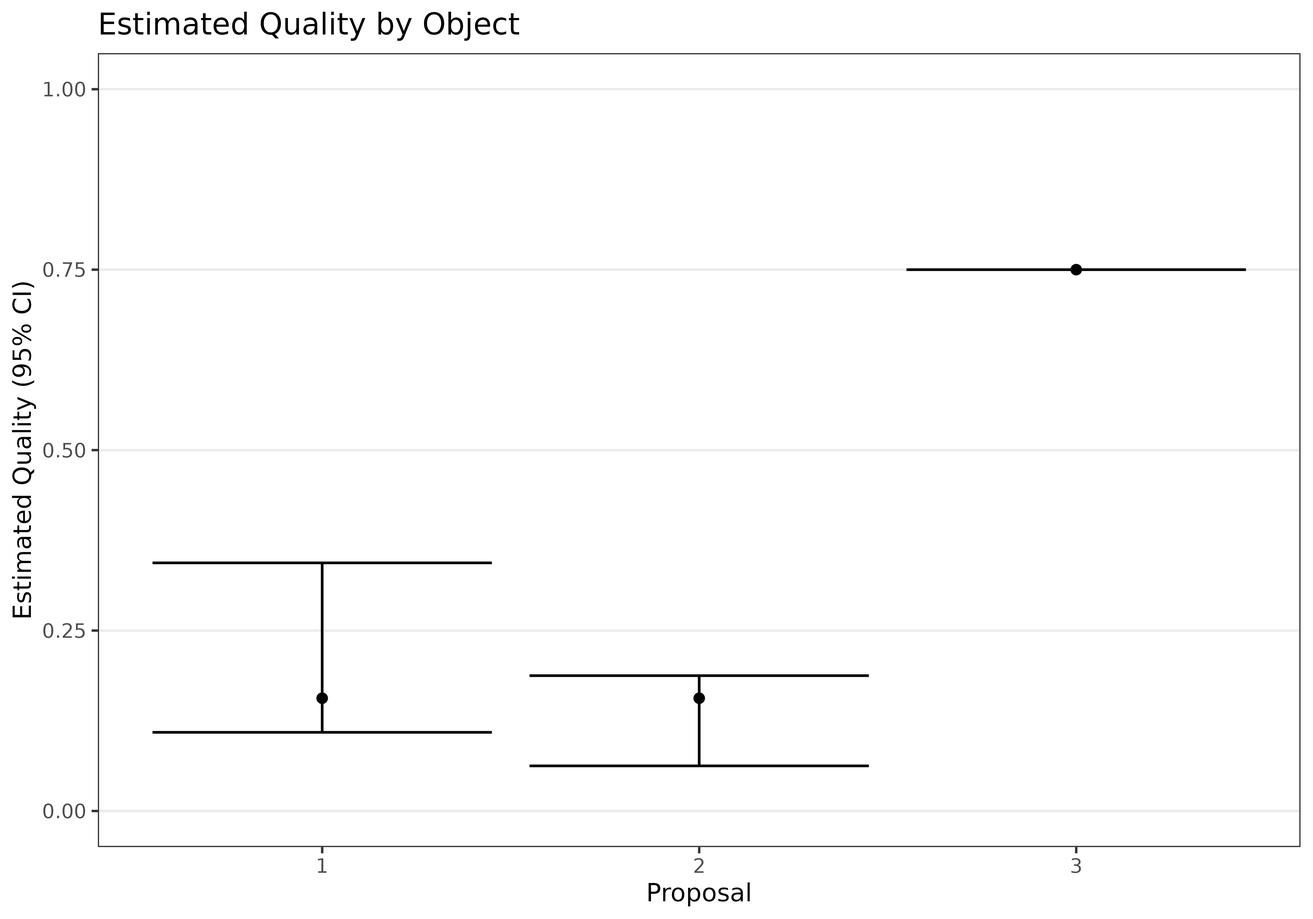
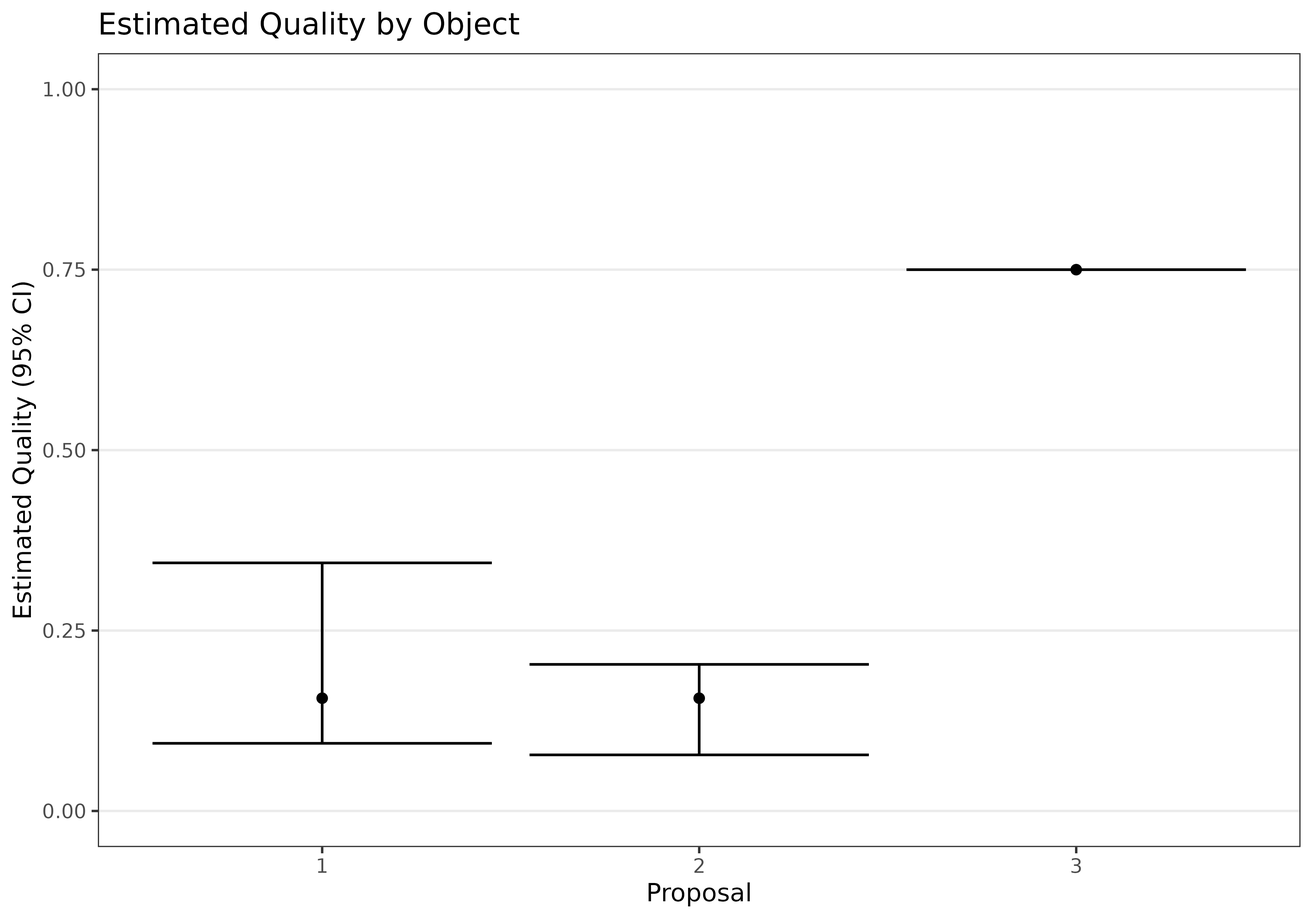
Deploying to gh-pages from @ pearce790/rankrate@70605de461a01934feefa08a687546aed1bb86b0 🚀

Changed region(s): [[0.1243, 0.7756, 0.373, 0.8377], [0.4041, 0.8067, 0.6528, 0.8377], [0.4041, 0.7136, 0.6528, 0.7446]]

diff --git a/reference/ci_mb.html b/reference/ci_mb.html
@@ -18,7 +18,7 @@ using the nonparametric bootstrap."><!-- mathjax --><script src="https://cdnjs.c
       </button>
       <span class="navbar-brand">
         <a class="navbar-link" href="../index.html">rankrate</a>
-        <span class="version label label-default" data-toggle="tooltip" data-placement="bottom" title="">1.2.0</span>
+        <span class="version label label-default" data-toggle="tooltip" data-placement="bottom" title="">1.3.0</span>
       </span>
     </div>
 
@@ -113,9 +113,9 @@ matrix of bootstrap estimates of (p,theta) (returned only if <code>all==TRUE</co
     <div class="sourceCode"><pre class="sourceCode r"><code><span class="r-in"><span><span class="fu"><a href="https://rdrr.io/r/utils/data.html" class="external-link">data</a></span><span class="op">(</span><span class="st">"ToyData1"</span><span class="op">)</span></span></span>
 <span class="r-in"><span><span class="fu">ci_mb</span><span class="op">(</span><span class="va">ToyData1</span><span class="op">$</span><span class="va">rankings</span>,<span class="va">ToyData1</span><span class="op">$</span><span class="va">ratings</span>,<span class="va">ToyData1</span><span class="op">$</span><span class="va">M</span>,method<span class="op">=</span><span class="st">"ASTAR"</span>,all<span class="op">=</span><span class="cn">TRUE</span><span class="op">)</span></span></span>
 <span class="r-out co"><span class="r-pr">#&gt;</span> $ci</span>
-<span class="r-out co"><span class="r-pr">#&gt;</span>           p1       p2   p3 theta</span>
-<span class="r-out co"><span class="r-pr">#&gt;</span> 5%  0.078125 0.078125 0.75 1e+08</span>
-<span class="r-out co"><span class="r-pr">#&gt;</span> 95% 0.171875 0.171875 0.75 1e+08</span>
+<span class="r-out co"><span class="r-pr">#&gt;</span>            p1        p2   p3 theta</span>
+<span class="r-out co"><span class="r-pr">#&gt;</span> 5%  0.0781250 0.0781250 0.75 1e+08</span>
+<span class="r-out co"><span class="r-pr">#&gt;</span> 95% 0.1804687 0.1804687 0.75 1e+08</span>
 <span class="r-out co"><span class="r-pr">#&gt;</span> </span>
 <span class="r-out co"><span class="r-pr">#&gt;</span> $ci_ranks</span>
 <span class="r-out co"><span class="r-pr">#&gt;</span>     Object1 Object2 Object3</span>
@@ -177,56 +177,56 @@ matrix of bootstrap estimates of (p,theta) (returned only if <code>all==TRUE</co
 <span class="r-out co"><span class="r-pr">#&gt;</span> </span>
 <span class="r-out co"><span class="r-pr">#&gt;</span> $bootstrap_ptheta</span>
 <span class="r-out co"><span class="r-pr">#&gt;</span>             p1       p2   p3 theta</span>
-<span class="r-out co"><span class="r-pr">#&gt;</span>  [1,] 0.093750 0.093750 0.75 1e+08</span>
-<span class="r-out co"><span class="r-pr">#&gt;</span>  [2,] 0.062500 0.062500 0.75 1e+08</span>
-<span class="r-out co"><span class="r-pr">#&gt;</span>  [3,] 0.125000 0.125000 0.75 1e+08</span>
+<span class="r-out co"><span class="r-pr">#&gt;</span>  [1,] 0.140625 0.140625 0.75 1e+08</span>
+<span class="r-out co"><span class="r-pr">#&gt;</span>  [2,] 0.187500 0.187500 0.75 1e+08</span>
+<span class="r-out co"><span class="r-pr">#&gt;</span>  [3,] 0.140625 0.140625 0.75 1e+08</span>
 <span class="r-out co"><span class="r-pr">#&gt;</span>  [4,] 0.125000 0.125000 0.75 1e+08</span>
 <span class="r-out co"><span class="r-pr">#&gt;</span>  [5,] 0.109375 0.109375 0.75 1e+08</span>
-<span class="r-out co"><span class="r-pr">#&gt;</span>  [6,] 0.140625 0.140625 0.75 1e+08</span>
-<span class="r-out co"><span class="r-pr">#&gt;</span>  [7,] 0.140625 0.140625 0.75 1e+08</span>
-<span class="r-out co"><span class="r-pr">#&gt;</span>  [8,] 0.156250 0.156250 0.75 1e+08</span>
-<span class="r-out co"><span class="r-pr">#&gt;</span>  [9,] 0.125000 0.125000 0.75 1e+08</span>
-<span class="r-out co"><span class="r-pr">#&gt;</span> [10,] 0.171875 0.171875 0.75 1e+08</span>
-<span class="r-out co"><span class="r-pr">#&gt;</span> [11,] 0.125000 0.125000 0.75 1e+08</span>
-<span class="r-out co"><span class="r-pr">#&gt;</span> [12,] 0.062500 0.062500 0.75 1e+08</span>
+<span class="r-out co"><span class="r-pr">#&gt;</span>  [6,] 0.187500 0.187500 0.75 1e+08</span>
+<span class="r-out co"><span class="r-pr">#&gt;</span>  [7,] 0.109375 0.109375 0.75 1e+08</span>
+<span class="r-out co"><span class="r-pr">#&gt;</span>  [8,] 0.171875 0.171875 0.75 1e+08</span>
+<span class="r-out co"><span class="r-pr">#&gt;</span>  [9,] 0.140625 0.140625 0.75 1e+08</span>
+<span class="r-out co"><span class="r-pr">#&gt;</span> [10,] 0.062500 0.062500 0.75 1e+08</span>
+<span class="r-out co"><span class="r-pr">#&gt;</span> [11,] 0.140625 0.140625 0.75 1e+08</span>
+<span class="r-out co"><span class="r-pr">#&gt;</span> [12,] 0.109375 0.109375 0.75 1e+08</span>
 <span class="r-out co"><span class="r-pr">#&gt;</span> [13,] 0.140625 0.140625 0.75 1e+08</span>
-<span class="r-out co"><span class="r-pr">#&gt;</span> [14,] 0.171875 0.171875 0.75 1e+08</span>
-<span class="r-out co"><span class="r-pr">#&gt;</span> [15,] 0.140625 0.140625 0.75 1e+08</span>
-<span class="r-out co"><span class="r-pr">#&gt;</span> [16,] 0.125000 0.125000 0.75 1e+08</span>
-<span class="r-out co"><span class="r-pr">#&gt;</span> [17,] 0.125000 0.125000 0.75 1e+08</span>
-<span class="r-out co"><span class="r-pr">#&gt;</span> [18,] 0.093750 0.093750 0.75 1e+08</span>
-<span class="r-out co"><span class="r-pr">#&gt;</span> [19,] 0.125000 0.125000 0.75 1e+08</span>
-<span class="r-out co"><span class="r-pr">#&gt;</span> [20,] 0.109375 0.109375 0.75 1e+08</span>
-<span class="r-out co"><span class="r-pr">#&gt;</span> [21,] 0.093750 0.093750 0.75 1e+08</span>
-<span class="r-out co"><span class="r-pr">#&gt;</span> [22,] 0.125000 0.125000 0.75 1e+08</span>
-<span class="r-out co"><span class="r-pr">#&gt;</span> [23,] 0.171875 0.171875 0.75 1e+08</span>
-<span class="r-out co"><span class="r-pr">#&gt;</span> [24,] 0.093750 0.093750 0.75 1e+08</span>
-<span class="r-out co"><span class="r-pr">#&gt;</span> [25,] 0.156250 0.156250 0.75 1e+08</span>
-<span class="r-out co"><span class="r-pr">#&gt;</span> [26,] 0.203125 0.203125 0.75 1e+08</span>
-<span class="r-out co"><span class="r-pr">#&gt;</span> [27,] 0.140625 0.140625 0.75 1e+08</span>
-<span class="r-out co"><span class="r-pr">#&gt;</span> [28,] 0.156250 0.156250 0.75 1e+08</span>
-<span class="r-out co"><span class="r-pr">#&gt;</span> [29,] 0.140625 0.140625 0.75 1e+08</span>
-<span class="r-out co"><span class="r-pr">#&gt;</span> [30,] 0.140625 0.140625 0.75 1e+08</span>
+<span class="r-out co"><span class="r-pr">#&gt;</span> [14,] 0.156250 0.156250 0.75 1e+08</span>
+<span class="r-out co"><span class="r-pr">#&gt;</span> [15,] 0.062500 0.062500 0.75 1e+08</span>
+<span class="r-out co"><span class="r-pr">#&gt;</span> [16,] 0.171875 0.171875 0.75 1e+08</span>
+<span class="r-out co"><span class="r-pr">#&gt;</span> [17,] 0.140625 0.140625 0.75 1e+08</span>
+<span class="r-out co"><span class="r-pr">#&gt;</span> [18,] 0.171875 0.171875 0.75 1e+08</span>
+<span class="r-out co"><span class="r-pr">#&gt;</span> [19,] 0.078125 0.078125 0.75 1e+08</span>
+<span class="r-out co"><span class="r-pr">#&gt;</span> [20,] 0.078125 0.078125 0.75 1e+08</span>
+<span class="r-out co"><span class="r-pr">#&gt;</span> [21,] 0.156250 0.156250 0.75 1e+08</span>
+<span class="r-out co"><span class="r-pr">#&gt;</span> [22,] 0.109375 0.109375 0.75 1e+08</span>
+<span class="r-out co"><span class="r-pr">#&gt;</span> [23,] 0.125000 0.125000 0.75 1e+08</span>
+<span class="r-out co"><span class="r-pr">#&gt;</span> [24,] 0.203125 0.203125 0.75 1e+08</span>
+<span class="r-out co"><span class="r-pr">#&gt;</span> [25,] 0.140625 0.140625 0.75 1e+08</span>
+<span class="r-out co"><span class="r-pr">#&gt;</span> [26,] 0.125000 0.125000 0.75 1e+08</span>
+<span class="r-out co"><span class="r-pr">#&gt;</span> [27,] 0.125000 0.125000 0.75 1e+08</span>
+<span class="r-out co"><span class="r-pr">#&gt;</span> [28,] 0.125000 0.125000 0.75 1e+08</span>
+<span class="r-out co"><span class="r-pr">#&gt;</span> [29,] 0.125000 0.125000 0.75 1e+08</span>
+<span class="r-out co"><span class="r-pr">#&gt;</span> [30,] 0.125000 0.125000 0.75 1e+08</span>
 <span class="r-out co"><span class="r-pr">#&gt;</span> [31,] 0.109375 0.109375 0.75 1e+08</span>
-<span class="r-out co"><span class="r-pr">#&gt;</span> [32,] 0.187500 0.187500 0.75 1e+08</span>
-<span class="r-out co"><span class="r-pr">#&gt;</span> [33,] 0.140625 0.140625 0.75 1e+08</span>
-<span class="r-out co"><span class="r-pr">#&gt;</span> [34,] 0.078125 0.078125 0.75 1e+08</span>
-<span class="r-out co"><span class="r-pr">#&gt;</span> [35,] 0.140625 0.140625 0.75 1e+08</span>
-<span class="r-out co"><span class="r-pr">#&gt;</span> [36,] 0.093750 0.093750 0.75 1e+08</span>
-<span class="r-out co"><span class="r-pr">#&gt;</span> [37,] 0.078125 0.078125 0.75 1e+08</span>
+<span class="r-out co"><span class="r-pr">#&gt;</span> [32,] 0.125000 0.125000 0.75 1e+08</span>
+<span class="r-out co"><span class="r-pr">#&gt;</span> [33,] 0.093750 0.093750 0.75 1e+08</span>
+<span class="r-out co"><span class="r-pr">#&gt;</span> [34,] 0.125000 0.125000 0.75 1e+08</span>
+<span class="r-out co"><span class="r-pr">#&gt;</span> [35,] 0.109375 0.109375 0.75 1e+08</span>
+<span class="r-out co"><span class="r-pr">#&gt;</span> [36,] 0.156250 0.156250 0.75 1e+08</span>
+<span class="r-out co"><span class="r-pr">#&gt;</span> [37,] 0.140625 0.140625 0.75 1e+08</span>
 <span class="r-out co"><span class="r-pr">#&gt;</span> [38,] 0.125000 0.125000 0.75 1e+08</span>
-<span class="r-out co"><span class="r-pr">#&gt;</span> [39,] 0.109375 0.109375 0.75 1e+08</span>
-<span class="r-out co"><span class="r-pr">#&gt;</span> [40,] 0.125000 0.125000 0.75 1e+08</span>
-<span class="r-out co"><span class="r-pr">#&gt;</span> [41,] 0.125000 0.125000 0.75 1e+08</span>
-<span class="r-out co"><span class="r-pr">#&gt;</span> [42,] 0.078125 0.078125 0.75 1e+08</span>
-<span class="r-out co"><span class="r-pr">#&gt;</span> [43,] 0.093750 0.093750 0.75 1e+08</span>
-<span class="r-out co"><span class="r-pr">#&gt;</span> [44,] 0.156250 0.156250 0.75 1e+08</span>
-<span class="r-out co"><span class="r-pr">#&gt;</span> [45,] 0.156250 0.156250 0.75 1e+08</span>
-<span class="r-out co"><span class="r-pr">#&gt;</span> [46,] 0.140625 0.140625 0.75 1e+08</span>
-<span class="r-out co"><span class="r-pr">#&gt;</span> [47,] 0.109375 0.109375 0.75 1e+08</span>
-<span class="r-out co"><span class="r-pr">#&gt;</span> [48,] 0.109375 0.109375 0.75 1e+08</span>
+<span class="r-out co"><span class="r-pr">#&gt;</span> [39,] 0.140625 0.140625 0.75 1e+08</span>
+<span class="r-out co"><span class="r-pr">#&gt;</span> [40,] 0.093750 0.093750 0.75 1e+08</span>
+<span class="r-out co"><span class="r-pr">#&gt;</span> [41,] 0.171875 0.171875 0.75 1e+08</span>
+<span class="r-out co"><span class="r-pr">#&gt;</span> [42,] 0.125000 0.125000 0.75 1e+08</span>
+<span class="r-out co"><span class="r-pr">#&gt;</span> [43,] 0.078125 0.078125 0.75 1e+08</span>
+<span class="r-out co"><span class="r-pr">#&gt;</span> [44,] 0.171875 0.171875 0.75 1e+08</span>
+<span class="r-out co"><span class="r-pr">#&gt;</span> [45,] 0.125000 0.125000 0.75 1e+08</span>
+<span class="r-out co"><span class="r-pr">#&gt;</span> [46,] 0.093750 0.093750 0.75 1e+08</span>
+<span class="r-out co"><span class="r-pr">#&gt;</span> [47,] 0.140625 0.140625 0.75 1e+08</span>
+<span class="r-out co"><span class="r-pr">#&gt;</span> [48,] 0.140625 0.140625 0.75 1e+08</span>
 <span class="r-out co"><span class="r-pr">#&gt;</span> [49,] 0.171875 0.171875 0.75 1e+08</span>
-<span class="r-out co"><span class="r-pr">#&gt;</span> [50,] 0.125000 0.125000 0.75 1e+08</span>
+<span class="r-out co"><span class="r-pr">#&gt;</span> [50,] 0.156250 0.156250 0.75 1e+08</span>
 <span class="r-out co"><span class="r-pr">#&gt;</span> </span>
 <span class="r-in"><span></span></span>
 </code></pre></div>

diff --git a/reference/rmb.html b/reference/rmb.html
@@ -17,7 +17,7 @@
       </button>
       <span class="navbar-brand">
         <a class="navbar-link" href="../index.html">rankrate</a>
-        <span class="version label label-default" data-toggle="tooltip" data-placement="bottom" title="">1.2.0</span>
+        <span class="version label label-default" data-toggle="tooltip" data-placement="bottom" title="">1.3.0</span>
       </span>
     </div>
 
@@ -96,19 +96,19 @@ and <code>M</code>, the inputted maximum integer rating.</p>
     <div class="sourceCode"><pre class="sourceCode r"><code><span class="r-in"><span><span class="fu">rmb</span><span class="op">(</span>I<span class="op">=</span><span class="fl">5</span>,p<span class="op">=</span><span class="fu"><a href="https://rdrr.io/r/base/c.html" class="external-link">c</a></span><span class="op">(</span><span class="fl">.1</span>,<span class="fl">.3</span>,<span class="fl">.4</span>,<span class="fl">.7</span>,<span class="fl">.9</span><span class="op">)</span>,theta<span class="op">=</span><span class="fl">1</span>,M<span class="op">=</span><span class="fl">10</span><span class="op">)</span></span></span>
 <span class="r-out co"><span class="r-pr">#&gt;</span> $ratings</span>
 <span class="r-out co"><span class="r-pr">#&gt;</span>      [,1] [,2] [,3] [,4] [,5]</span>
-<span class="r-out co"><span class="r-pr">#&gt;</span> [1,]    0    3    4    7   10</span>
-<span class="r-out co"><span class="r-pr">#&gt;</span> [2,]    0    2    4    7    9</span>
-<span class="r-out co"><span class="r-pr">#&gt;</span> [3,]    1    2    4    5    9</span>
-<span class="r-out co"><span class="r-pr">#&gt;</span> [4,]    0    3    3    7   10</span>
-<span class="r-out co"><span class="r-pr">#&gt;</span> [5,]    2    2    3    6    9</span>
+<span class="r-out co"><span class="r-pr">#&gt;</span> [1,]    0    6    5    7    9</span>
+<span class="r-out co"><span class="r-pr">#&gt;</span> [2,]    2    7    3    6    8</span>
+<span class="r-out co"><span class="r-pr">#&gt;</span> [3,]    1    5    3    9   10</span>
+<span class="r-out co"><span class="r-pr">#&gt;</span> [4,]    0    3    6    4    8</span>
+<span class="r-out co"><span class="r-pr">#&gt;</span> [5,]    2    6    1    8    8</span>
 <span class="r-out co"><span class="r-pr">#&gt;</span> </span>
 <span class="r-out co"><span class="r-pr">#&gt;</span> $rankings</span>
 <span class="r-out co"><span class="r-pr">#&gt;</span>      [,1] [,2] [,3] [,4] [,5]</span>
-<span class="r-out co"><span class="r-pr">#&gt;</span> [1,]    1    5    2    3    4</span>
+<span class="r-out co"><span class="r-pr">#&gt;</span> [1,]    2    3    1    4    5</span>
 <span class="r-out co"><span class="r-pr">#&gt;</span> [2,]    1    2    3    4    5</span>
-<span class="r-out co"><span class="r-pr">#&gt;</span> [3,]    1    2    3    4    5</span>
-<span class="r-out co"><span class="r-pr">#&gt;</span> [4,]    1    2    4    3    5</span>
-<span class="r-out co"><span class="r-pr">#&gt;</span> [5,]    1    3    4    5    2</span>
+<span class="r-out co"><span class="r-pr">#&gt;</span> [3,]    2    4    3    5    1</span>
+<span class="r-out co"><span class="r-pr">#&gt;</span> [4,]    3    4    1    5    2</span>
+<span class="r-out co"><span class="r-pr">#&gt;</span> [5,]    1    4    2    5    3</span>
 <span class="r-out co"><span class="r-pr">#&gt;</span> </span>
 <span class="r-out co"><span class="r-pr">#&gt;</span> $M</span>
 <span class="r-out co"><span class="r-pr">#&gt;</span> [1] 10</span>
@@ -116,16 +116,16 @@ and <code>M</code>, the inputted maximum integer rating.</p>
 <span class="r-in"><span><span class="fu">rmb</span><span class="op">(</span>I<span class="op">=</span><span class="fl">10</span>,p<span class="op">=</span><span class="fu"><a href="https://rdrr.io/r/base/c.html" class="external-link">c</a></span><span class="op">(</span><span class="fl">.1</span>,<span class="fl">.3</span>,<span class="fl">.3</span>,<span class="fl">.7</span>,<span class="fl">.9</span><span class="op">)</span>,pi0<span class="op">=</span><span class="fu"><a href="https://rdrr.io/r/base/c.html" class="external-link">c</a></span><span class="op">(</span><span class="fl">1</span>,<span class="fl">3</span>,<span class="fl">2</span>,<span class="fl">4</span>,<span class="fl">5</span><span class="op">)</span>,theta<span class="op">=</span><span class="fl">5</span>,M<span class="op">=</span><span class="fl">40</span>,R<span class="op">=</span><span class="fl">3</span><span class="op">)</span></span></span>
 <span class="r-out co"><span class="r-pr">#&gt;</span> $ratings</span>
 <span class="r-out co"><span class="r-pr">#&gt;</span>       [,1] [,2] [,3] [,4] [,5]</span>
-<span class="r-out co"><span class="r-pr">#&gt;</span>  [1,]    4   11   10   26   37</span>
-<span class="r-out co"><span class="r-pr">#&gt;</span>  [2,]    4   12   13   26   39</span>
-<span class="r-out co"><span class="r-pr">#&gt;</span>  [3,]    5   16    9   30   37</span>
-<span class="r-out co"><span class="r-pr">#&gt;</span>  [4,]    1   13   18   31   30</span>
-<span class="r-out co"><span class="r-pr">#&gt;</span>  [5,]    6   19   13   32   37</span>
-<span class="r-out co"><span class="r-pr">#&gt;</span>  [6,]    2   10   17   26   38</span>
-<span class="r-out co"><span class="r-pr">#&gt;</span>  [7,]    1   17   10   23   34</span>
-<span class="r-out co"><span class="r-pr">#&gt;</span>  [8,]    3    9   12   29   34</span>
-<span class="r-out co"><span class="r-pr">#&gt;</span>  [9,]    4   11   15   26   38</span>
-<span class="r-out co"><span class="r-pr">#&gt;</span> [10,]    4   14    8   28   35</span>
+<span class="r-out co"><span class="r-pr">#&gt;</span>  [1,]    8   17   15   25   35</span>
+<span class="r-out co"><span class="r-pr">#&gt;</span>  [2,]    6    7   13   27   36</span>
+<span class="r-out co"><span class="r-pr">#&gt;</span>  [3,]    5   14   13   29   38</span>
+<span class="r-out co"><span class="r-pr">#&gt;</span>  [4,]    4   16   17   27   39</span>
+<span class="r-out co"><span class="r-pr">#&gt;</span>  [5,]    4   12   15   31   34</span>
+<span class="r-out co"><span class="r-pr">#&gt;</span>  [6,]    6   11   18   23   36</span>
+<span class="r-out co"><span class="r-pr">#&gt;</span>  [7,]    3   10   13   24   36</span>
+<span class="r-out co"><span class="r-pr">#&gt;</span>  [8,]    4   14   17   28   35</span>
+<span class="r-out co"><span class="r-pr">#&gt;</span>  [9,]    4    8   15   30   32</span>
+<span class="r-out co"><span class="r-pr">#&gt;</span> [10,]    5   11   16   27   36</span>
 <span class="r-out co"><span class="r-pr">#&gt;</span> </span>
 <span class="r-out co"><span class="r-pr">#&gt;</span> $rankings</span>
 <span class="r-out co"><span class="r-pr">#&gt;</span>       [,1] [,2] [,3] [,4] [,5]</span>

diff --git a/reference/rmall.html b/reference/rmall.html
@@ -17,7 +17,7 @@
       </button>
       <span class="navbar-brand">
         <a class="navbar-link" href="../index.html">rankrate</a>
-        <span class="version label label-default" data-toggle="tooltip" data-placement="bottom" title="">1.2.0</span>
+        <span class="version label label-default" data-toggle="tooltip" data-placement="bottom" title="">1.3.0</span>
       </span>
     </div>
 
@@ -85,25 +85,25 @@ rankings are drawn by definition.</p></dd>
     <h2>Examples</h2>
     <div class="sourceCode"><pre class="sourceCode r"><code><span class="r-in"><span><span class="fu">rmall</span><span class="op">(</span>I<span class="op">=</span><span class="fl">5</span>,pi0<span class="op">=</span><span class="fl">1</span><span class="op">:</span><span class="fl">5</span>,theta<span class="op">=</span><span class="fl">1</span>,R<span class="op">=</span><span class="fl">3</span><span class="op">)</span></span></span>
 <span class="r-out co"><span class="r-pr">#&gt;</span>      [,1] [,2] [,3] [,4] [,5]</span>
-<span class="r-out co"><span class="r-pr">#&gt;</span> [1,]    2    1    3   NA   NA</span>
+<span class="r-out co"><span class="r-pr">#&gt;</span> [1,]    1    2    3   NA   NA</span>
 <span class="r-out co"><span class="r-pr">#&gt;</span> [2,]    1    2    3   NA   NA</span>
-<span class="r-out co"><span class="r-pr">#&gt;</span> [3,]    2    3    1   NA   NA</span>
-<span class="r-out co"><span class="r-pr">#&gt;</span> [4,]    2    1    3   NA   NA</span>
-<span class="r-out co"><span class="r-pr">#&gt;</span> [5,]    3    1    2   NA   NA</span>
+<span class="r-out co"><span class="r-pr">#&gt;</span> [3,]    1    2    4   NA   NA</span>
+<span class="r-out co"><span class="r-pr">#&gt;</span> [4,]    2    1    4   NA   NA</span>
+<span class="r-out co"><span class="r-pr">#&gt;</span> [5,]    1    4    2   NA   NA</span>
 <span class="r-in"><span><span class="fu">rmall</span><span class="op">(</span>I<span class="op">=</span><span class="fl">5</span>,pi0<span class="op">=</span><span class="fl">1</span><span class="op">:</span><span class="fl">3</span>,theta<span class="op">=</span><span class="fl">.5</span>,R<span class="op">=</span><span class="fu"><a href="https://rdrr.io/r/base/c.html" class="external-link">c</a></span><span class="op">(</span><span class="fl">1</span>,<span class="fl">1</span>,<span class="fl">1</span>,<span class="fl">1</span>,<span class="fl">3</span><span class="op">)</span><span class="op">)</span></span></span>
 <span class="r-out co"><span class="r-pr">#&gt;</span>      [,1] [,2] [,3]</span>
 <span class="r-out co"><span class="r-pr">#&gt;</span> [1,]    1   NA   NA</span>
-<span class="r-out co"><span class="r-pr">#&gt;</span> [2,]    1   NA   NA</span>
-<span class="r-out co"><span class="r-pr">#&gt;</span> [3,]    3   NA   NA</span>
-<span class="r-out co"><span class="r-pr">#&gt;</span> [4,]    1   NA   NA</span>
-<span class="r-out co"><span class="r-pr">#&gt;</span> [5,]    1    2    3</span>
+<span class="r-out co"><span class="r-pr">#&gt;</span> [2,]    2   NA   NA</span>
+<span class="r-out co"><span class="r-pr">#&gt;</span> [3,]    2   NA   NA</span>
+<span class="r-out co"><span class="r-pr">#&gt;</span> [4,]    2   NA   NA</span>
+<span class="r-out co"><span class="r-pr">#&gt;</span> [5,]    3    1    2</span>
 <span class="r-in"><span><span class="fu">rmall</span><span class="op">(</span>I<span class="op">=</span><span class="fl">5</span>,pi0<span class="op">=</span><span class="fl">1</span><span class="op">:</span><span class="fl">3</span>,theta<span class="op">=</span><span class="fl">.5</span><span class="op">)</span></span></span>
 <span class="r-out co"><span class="r-pr">#&gt;</span>      [,1] [,2] [,3]</span>
-<span class="r-out co"><span class="r-pr">#&gt;</span> [1,]    1    3    2</span>
-<span class="r-out co"><span class="r-pr">#&gt;</span> [2,]    1    2    3</span>
-<span class="r-out co"><span class="r-pr">#&gt;</span> [3,]    3    2    1</span>
+<span class="r-out co"><span class="r-pr">#&gt;</span> [1,]    1    2    3</span>
+<span class="r-out co"><span class="r-pr">#&gt;</span> [2,]    1    3    2</span>
+<span class="r-out co"><span class="r-pr">#&gt;</span> [3,]    2    3    1</span>
 <span class="r-out co"><span class="r-pr">#&gt;</span> [4,]    2    3    1</span>
-<span class="r-out co"><span class="r-pr">#&gt;</span> [5,]    1    3    2</span>
+<span class="r-out co"><span class="r-pr">#&gt;</span> [5,]    2    1    3</span>
 <span class="r-in"><span></span></span>
 </code></pre></div>
     </div>

diff --git a/news/index.html b/news/index.html
@@ -17,7 +17,7 @@
       </button>
       <span class="navbar-brand">
         <a class="navbar-link" href="../index.html">rankrate</a>
-        <span class="version label label-default" data-toggle="tooltip" data-placement="bottom" title="">1.2.0</span>
+        <span class="version label label-default" data-toggle="tooltip" data-placement="bottom" title="">1.3.0</span>
       </span>
     </div>
 
@@ -45,12 +45,15 @@
     </div>
 
     <div class="section level2">
-<h2 class="page-header" data-toc-text="1.2.0" id="rankrate-120">rankrate 1.2.0<a class="anchor" aria-label="anchor" href="#rankrate-120"></a></h2>
+<h2 class="page-header" data-toc-text="1.3.0" id="rankrate-130">rankrate 1.3.0<a class="anchor" aria-label="anchor" href="#rankrate-130"></a></h2>
 <ul><li>Removed bugs in estimation of object quality vector, p.</li>
 <li>Removed “LP” estimation option, which is overly complex and has no apparent estimation advantages. We recommend using the “ASTAR” option instead, which provides exact MLE search and is generally faster.</li>
 <li>Allow for identification of multiple MLEs, if ties between objects. When this occurs, estimation functions produce a message.</li>
 <li>Added vignettes.</li>
 </ul></div>
+    <div class="section level2">
+<h2 class="page-header" data-toc-text="1.2.0" id="rankrate-120">rankrate 1.2.0<a class="anchor" aria-label="anchor" href="#rankrate-120"></a></h2>
+</div>
     <div class="section level2">
 <h2 class="page-header" data-toc-text="1.1.0" id="rankrate-110">rankrate 1.1.0<a class="anchor" aria-label="anchor" href="#rankrate-110"></a></h2>
 <ul><li>First release.</li>

diff --git a/authors.html b/authors.html
@@ -17,7 +17,7 @@
       </button>
       <span class="navbar-brand">
         <a class="navbar-link" href="index.html">rankrate</a>
-        <span class="version label label-default" data-toggle="tooltip" data-placement="bottom" title="">1.2.0</span>
+        <span class="version label label-default" data-toggle="tooltip" data-placement="bottom" title="">1.3.0</span>
       </span>
     </div>
 
@@ -60,13 +60,13 @@
 
     <p>Pearce M (2023).
 <em>rankrate: Joint Statistical Models for Preference Learning with Rankings and Ratings</em>.
-R package version 1.2.0, <a href="https://pearce790.github.io/rankrate/">https://pearce790.github.io/rankrate/</a>. 
+R package version 1.3.0, <a href="https://pearce790.github.io/rankrate/">https://pearce790.github.io/rankrate/</a>. 
 </p>
     <pre>@Manual{,
   title = {rankrate: Joint Statistical Models for Preference Learning with Rankings and Ratings},
   author = {Michael Pearce},
   year = {2023},
-  note = {R package version 1.2.0},
+  note = {R package version 1.3.0},
   url = {https://pearce790.github.io/rankrate/},
 }</pre>
 

diff --git a/reference/AIBS.html b/reference/AIBS.html
@@ -19,7 +19,7 @@ real grant proposals for a funding agency."><!-- mathjax --><script src="https:/
       </button>
       <span class="navbar-brand">
         <a class="navbar-link" href="../index.html">rankrate</a>
-        <span class="version label label-default" data-toggle="tooltip" data-placement="bottom" title="">1.2.0</span>
+        <span class="version label label-default" data-toggle="tooltip" data-placement="bottom" title="">1.3.0</span>
       </span>
     </div>
 

diff --git a/reference/GreedyLocal.html b/reference/GreedyLocal.html
@@ -18,7 +18,7 @@ which is identical to the Greedy method but includes an automatic and targeted p
       </button>
       <span class="navbar-brand">
         <a class="navbar-link" href="../index.html">rankrate</a>
-        <span class="version label label-default" data-toggle="tooltip" data-placement="bottom" title="">1.2.0</span>
+        <span class="version label label-default" data-toggle="tooltip" data-placement="bottom" title="">1.3.0</span>
       </span>
     </div>
 

diff --git a/reference/ToyData1.html b/reference/ToyData1.html
@@ -18,7 +18,7 @@ of the Mallows-Binomial model to break ties in ratings via rankings."><!-- mathj
       </button>
       <span class="navbar-brand">
         <a class="navbar-link" href="../index.html">rankrate</a>
-        <span class="version label label-default" data-toggle="tooltip" data-placement="bottom" title="">1.2.0</span>
+        <span class="version label label-default" data-toggle="tooltip" data-placement="bottom" title="">1.3.0</span>
       </span>
     </div>
 

diff --git a/reference/ToyData2.html b/reference/ToyData2.html
@@ -18,7 +18,7 @@ of the Mallows-Binomial model to estimate overall object orderings under partial
       </button>
       <span class="navbar-brand">
         <a class="navbar-link" href="../index.html">rankrate</a>
-        <span class="version label label-default" data-toggle="tooltip" data-placement="bottom" title="">1.2.0</span>
+        <span class="version label label-default" data-toggle="tooltip" data-placement="bottom" title="">1.3.0</span>
       </span>
     </div>
 

diff --git a/reference/ToyData3.html b/reference/ToyData3.html
@@ -19,7 +19,7 @@ sets of rankings and ratings which are internally inconsistent."><!-- mathjax --
       </button>
       <span class="navbar-brand">
         <a class="navbar-link" href="../index.html">rankrate</a>
-        <span class="version label label-default" data-toggle="tooltip" data-placement="bottom" title="">1.2.0</span>
+        <span class="version label label-default" data-toggle="tooltip" data-placement="bottom" title="">1.3.0</span>
       </span>
     </div>
 

diff --git a/reference/to_rankings.html b/reference/to_rankings.html
@@ -19,7 +19,7 @@ matrix of rankings."><!-- mathjax --><script src="https://cdnjs.cloudflare.com/a
       </button>
       <span class="navbar-brand">
         <a class="navbar-link" href="../index.html">rankrate</a>
-        <span class="version label label-default" data-toggle="tooltip" data-placement="bottom" title="">1.2.0</span>
+        <span class="version label label-default" data-toggle="tooltip" data-placement="bottom" title="">1.3.0</span>
       </span>
     </div>
 

diff --git a/404.html b/404.html
@@ -32,7 +32,7 @@
       </button>
       <span class="navbar-brand">
         <a class="navbar-link" href="https://pearce790.github.io/rankrate/index.html">rankrate</a>
-        <span class="version label label-default" data-toggle="tooltip" data-placement="bottom" title="">1.2.0</span>
+        <span class="version label label-default" data-toggle="tooltip" data-placement="bottom" title="">1.3.0</span>
       </span>
     </div>
 
